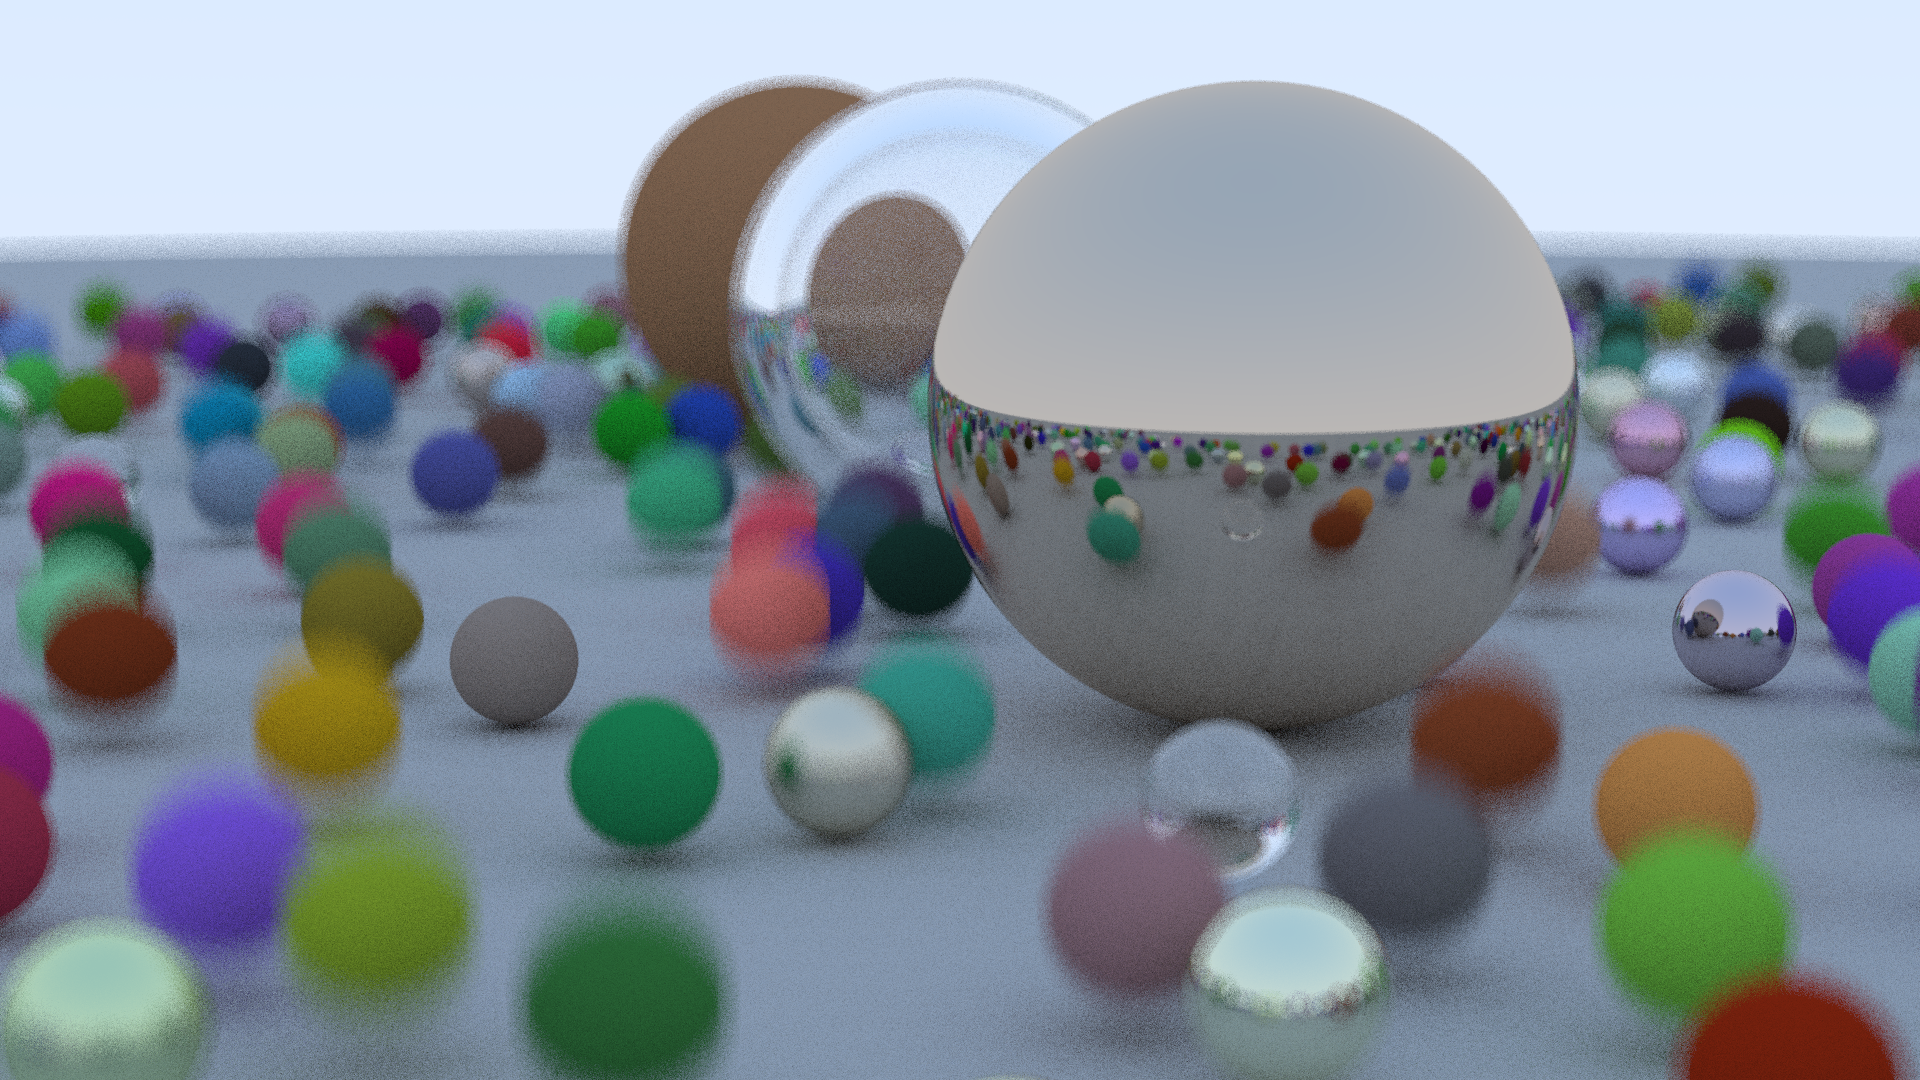
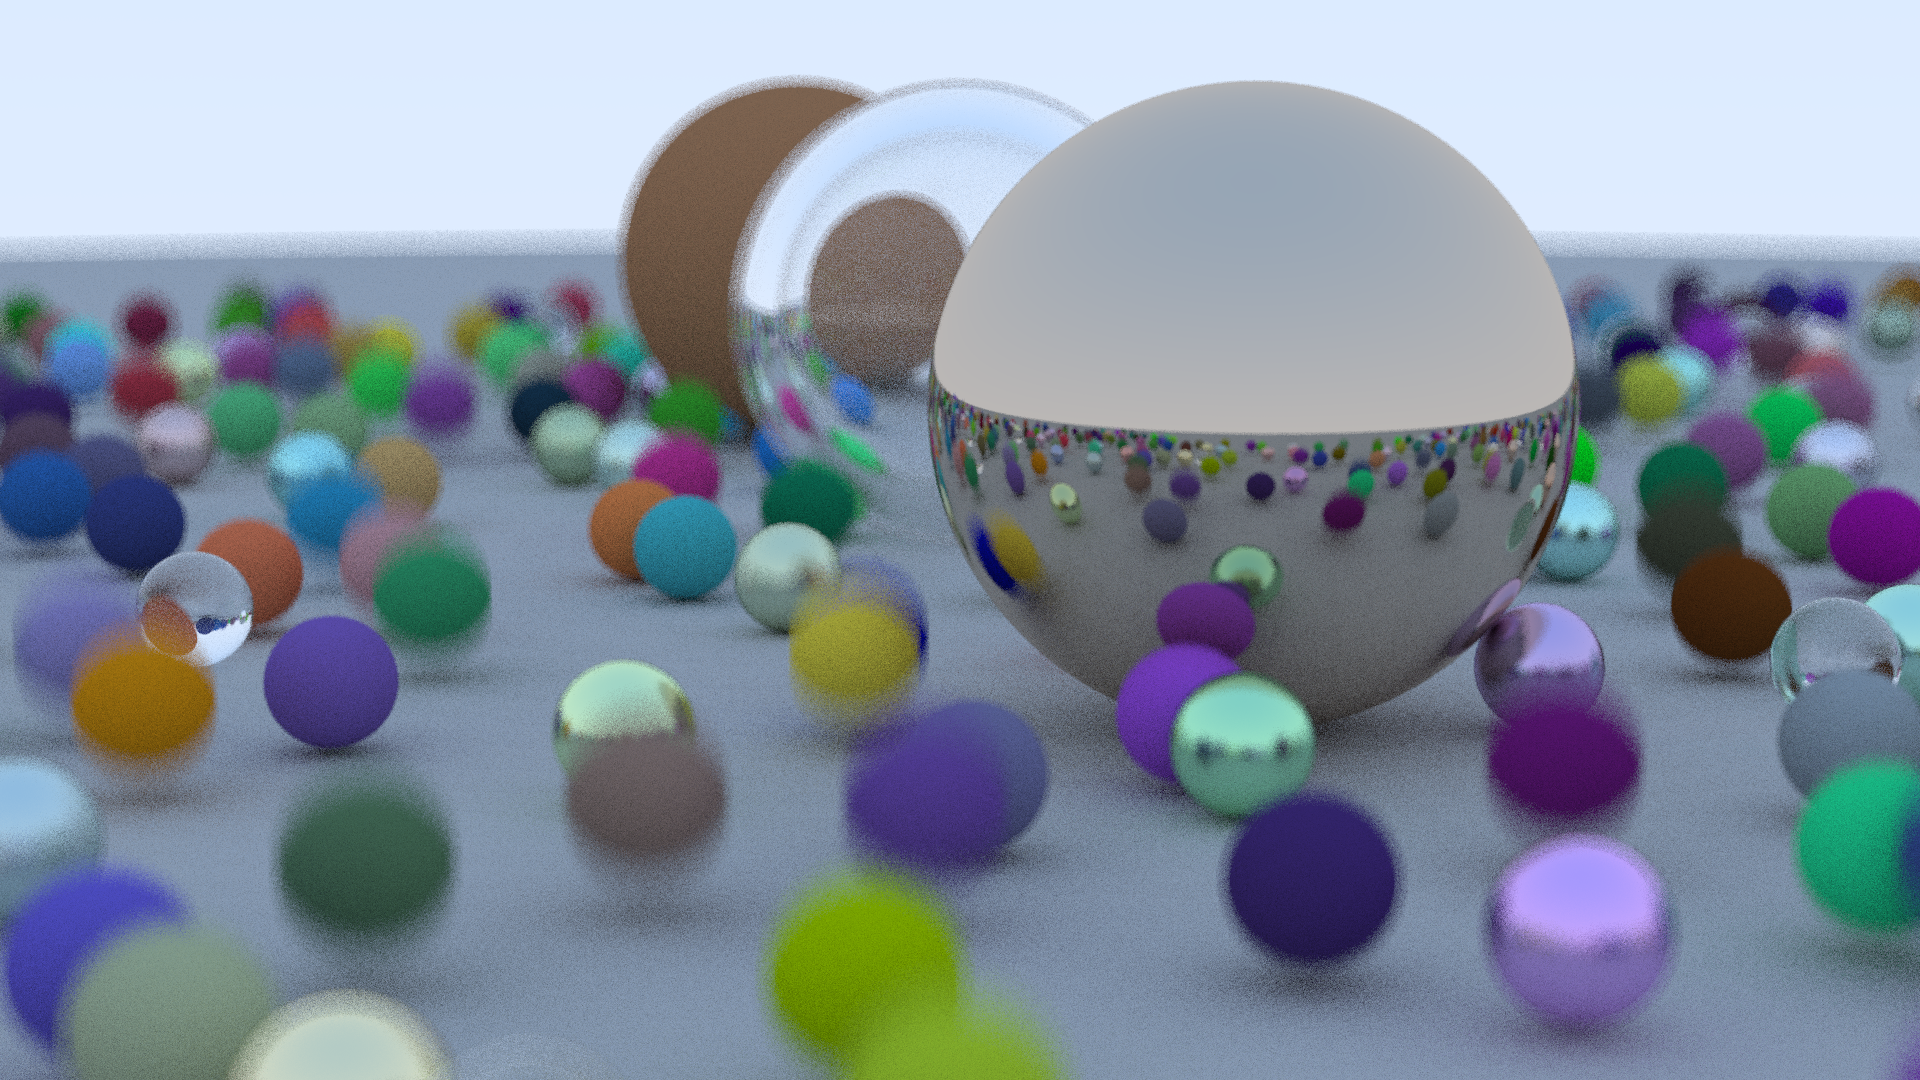
splitted rendered spheres into 4 sections

diff --git a/src/bin/render.rs b/src/bin/render.rs
@@ -56,16 +56,40 @@ fn main() -> Result<()> {
 
     let rng = rand::rng();
 
-    let mut spheres = HitableListBuilder::new();
+    let mut ul_spheres = HitableListBuilder::new();
+    let mut ur_spheres = HitableListBuilder::new();
+    let mut ll_spheres = HitableListBuilder::new();
+    let mut lr_spheres = HitableListBuilder::new();
 
-    for a in -11..11 {
-        for b in -11..11 {
+    for a in -11..0 {
+        for b in -11..0 {
             if let Some(sphere) = generate_random_sphere(a as Real, b as Real, rng.clone()) {
-                spheres.add(sphere);
+                ul_spheres.add(sphere);
+            }
+        }
+        for b in 0..11 {
+            if let Some(sphere) = generate_random_sphere(a as Real, b as Real, rng.clone()) {
+                ur_spheres.add(sphere);
             }
         }
     }
-    world.add_builder(spheres.into());
+    for a in 0..11 {
+        for b in -11..0 {
+            if let Some(sphere) = generate_random_sphere(a as Real, b as Real, rng.clone()) {
+                ll_spheres.add(sphere);
+            }
+        }
+        for b in 0..11 {
+            if let Some(sphere) = generate_random_sphere(a as Real, b as Real, rng.clone()) {
+                lr_spheres.add(sphere);
+            }
+        }
+    }
+
+    world.add_builder(ul_spheres.into());
+    world.add_builder(ur_spheres.into());
+    world.add_builder(ll_spheres.into());
+    world.add_builder(lr_spheres.into());
 
     let material1a = Dielectric::new(1.5);
     world.add(Sphere::new_static(Point3::new(0.0, 1.0, 0.0), 1.0, material1a).into());
